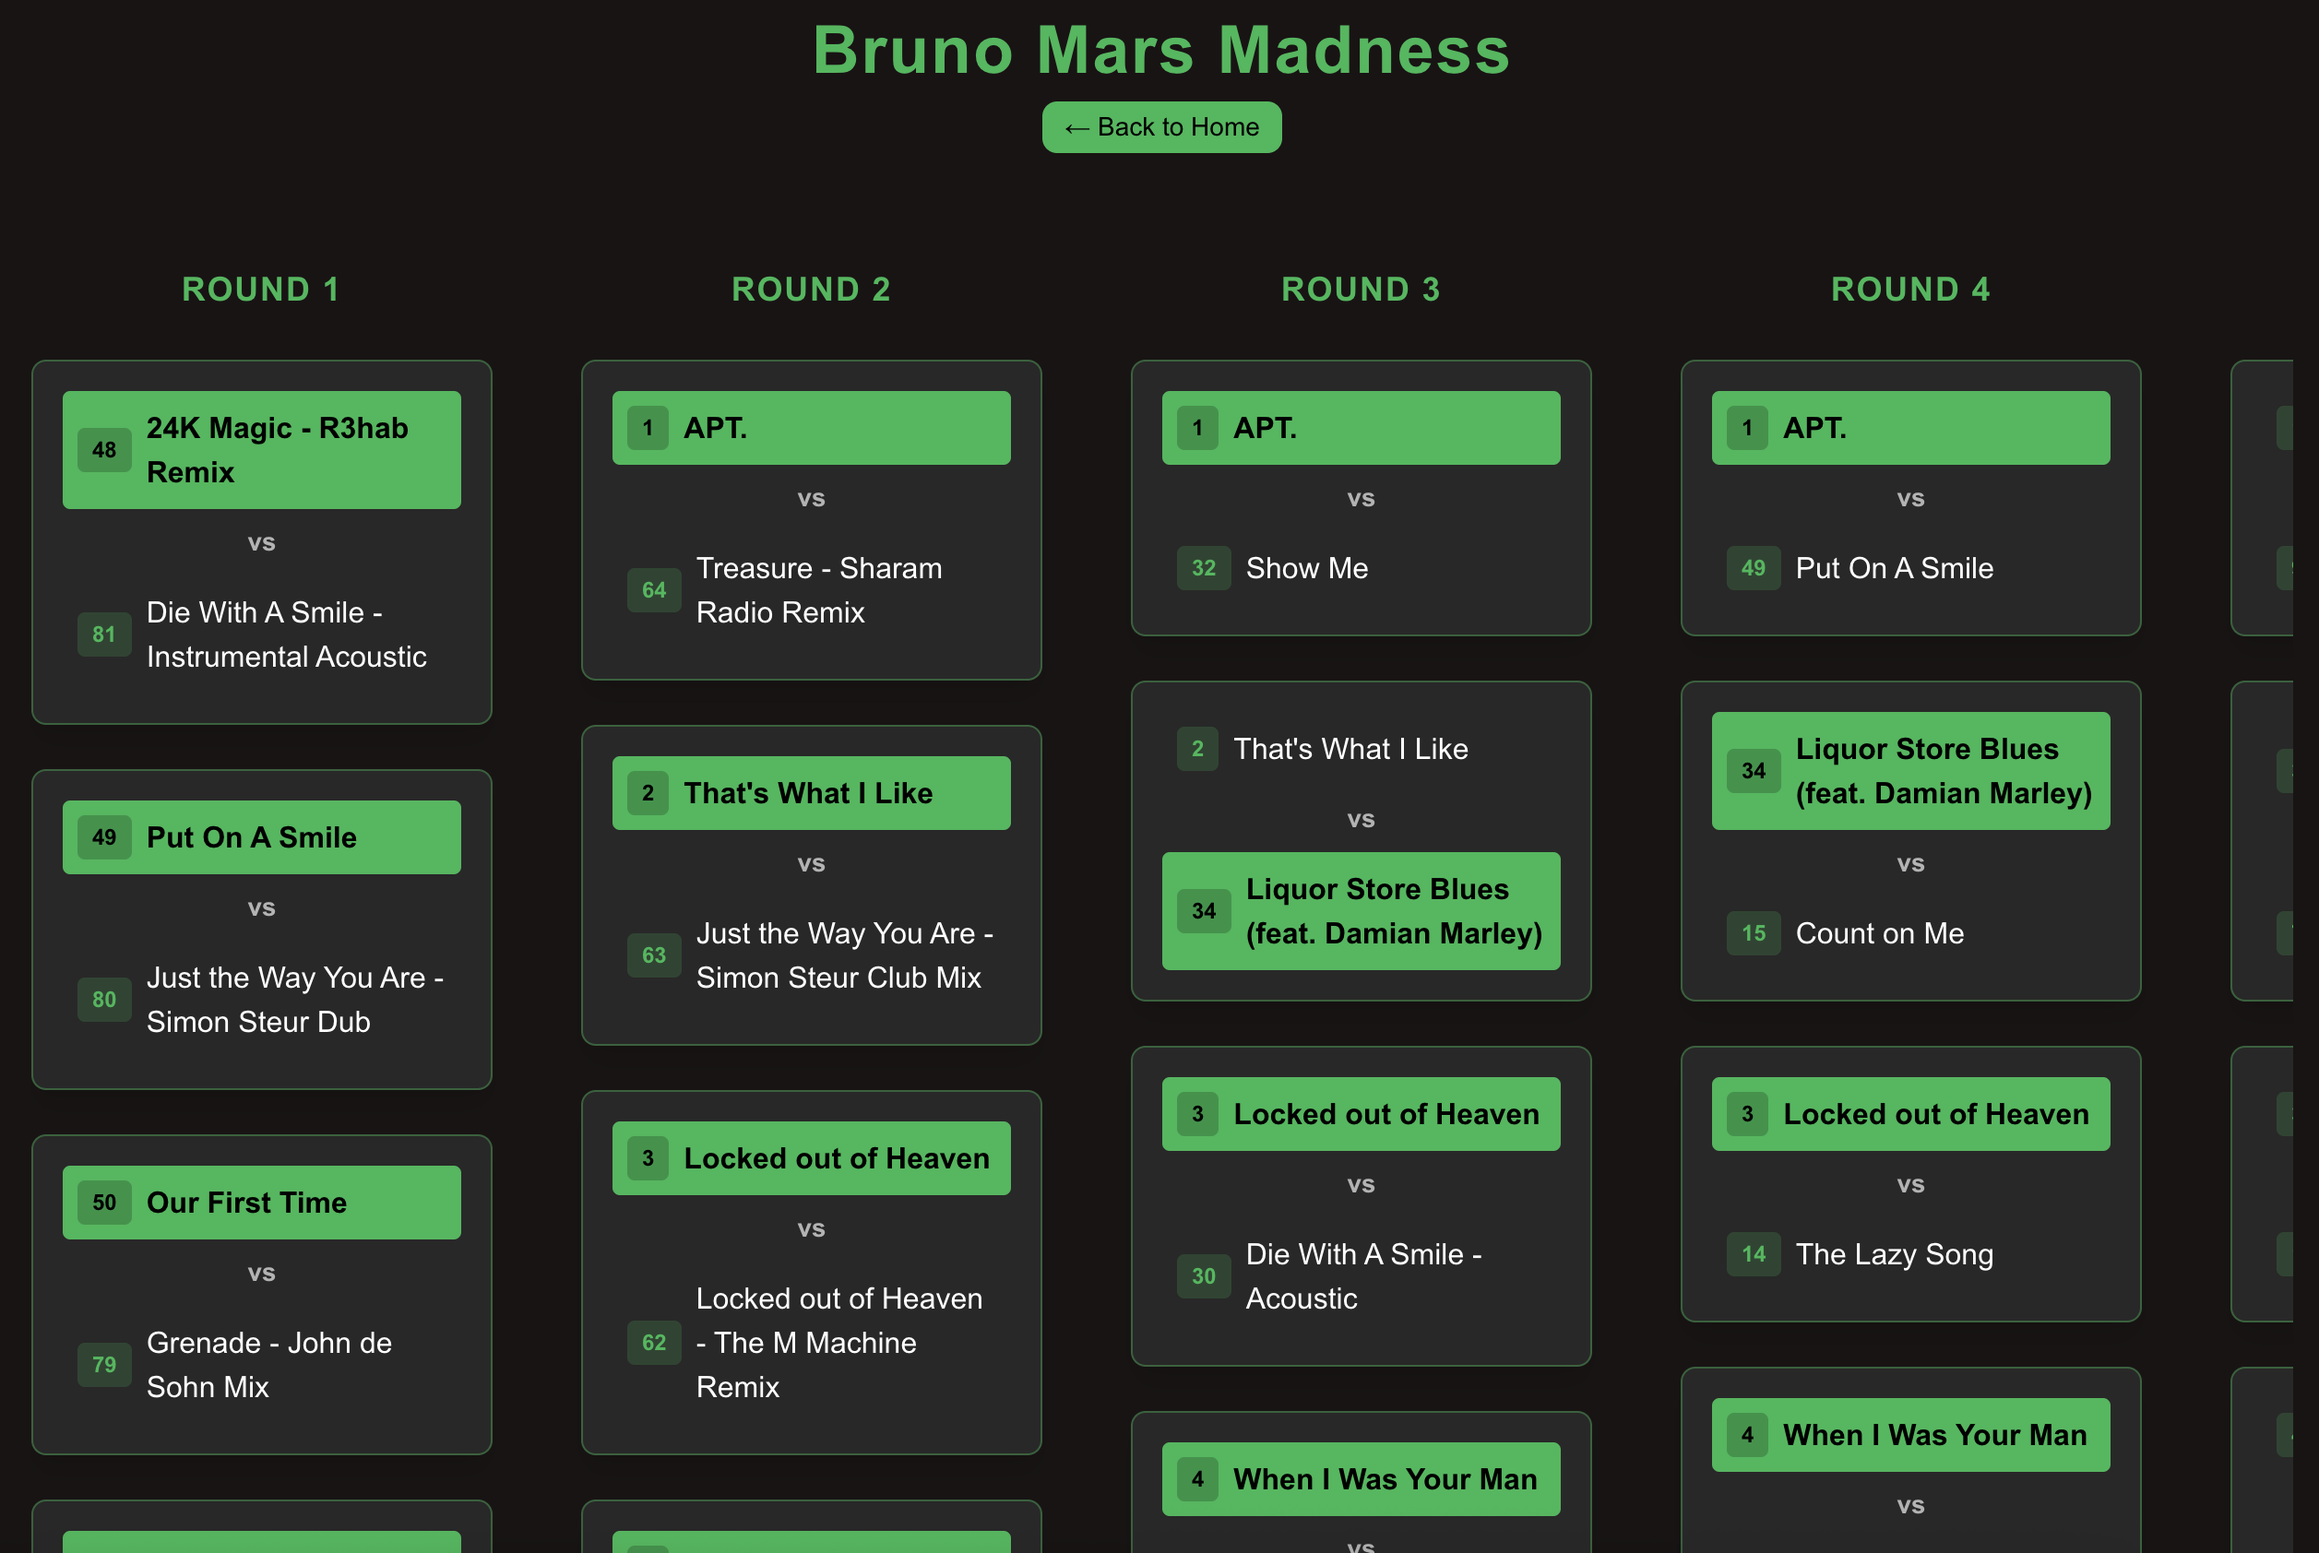
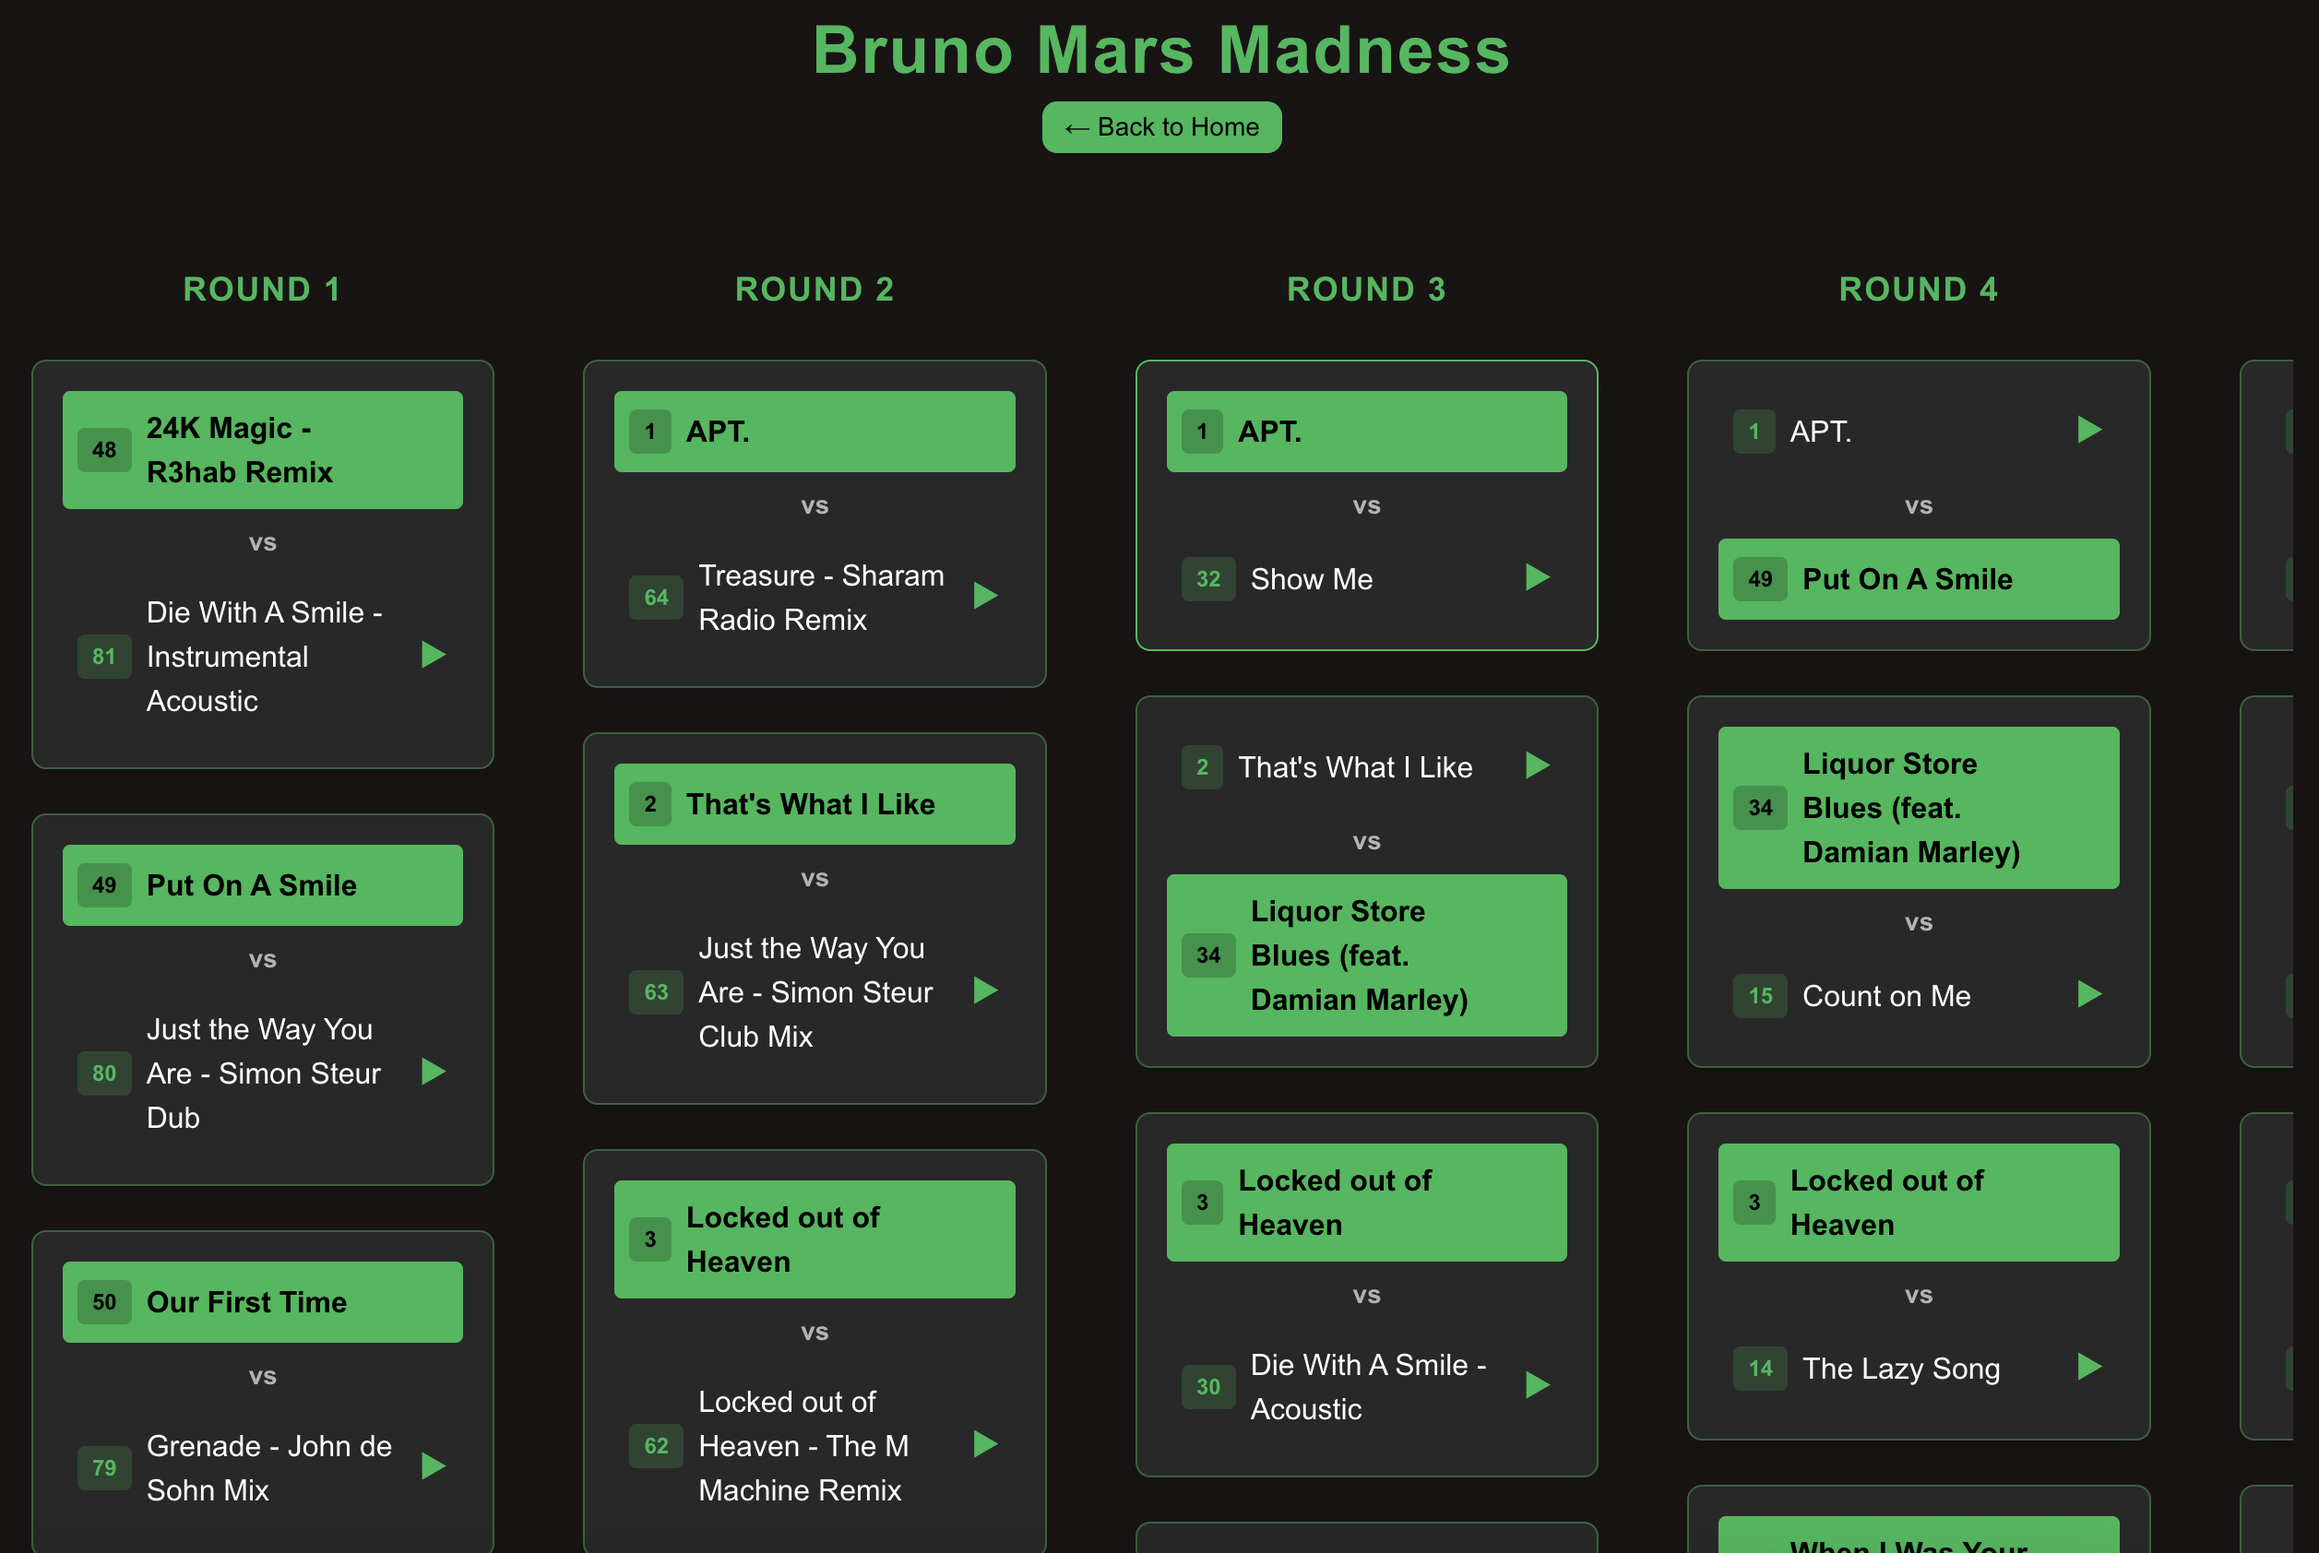
fixed readme

diff --git a/README.md b/README.md
@@ -6,13 +6,15 @@ An interactive web app that generates head-to-head tournament brackets from an a
 👉 [music-madness.vercel.app](https://music-madness.vercel.app)
 
 ## ✨ Features
-- 🔍 **Artist Search** – Enter any artist’s name to instantly pull their discography using the Spotify API
-- 🎶 **Automatic Song Import** – Fetches track titles and metadata directly from Spotify (no manual entry)
-- 🏆 **Bracket Generator** – Randomizes songs into a single-elimination tournament bracket
-- ✅ **Duplicate Handling** – Case-insensitive merging (e.g., “True Love” vs “TRUE LOVE” or "INDUSTRY BABY" vs "INDUSTRY BABY (feat. Jack Harlow)" count as the same song)
-- ⭐ **Song Popularity Ranking** – Automatically sorts songs by Spotify popularity score, so the biggest hits rise to the top
-- 🖥 **Interactive UI** – Progress through rounds by selecting winners with a clean, responsive bracket interface
-- 📌 **Quality of Life Features** – Sticky headers, dynamic tab names, and auto-advancing when matchups are empty
+- 🔍 **Artist Search** – Enter any artist’s name to instantly pull their discography using the Spotify API  
+- 🎶 **Automatic Song Import** – Fetches track titles, album covers, and metadata directly from Spotify (no manual entry)  
+- 🏆 **Bracket Generator** – Randomizes songs into a single-elimination tournament bracket  
+- ✅ **Duplicate Handling** – Case-insensitive merging (e.g., “True Love” vs “TRUE LOVE” or "INDUSTRY BABY" vs "INDUSTRY BABY (feat. Jack Harlow)" count as the same song)  
+- ⭐ **Song Popularity Ranking** – Automatically sorts songs by Spotify popularity score, so the biggest hits rise to the top  
+- 🎧 **Spotify Previews** – Play previews of songs directly from Spotify before making your pick  
+- 💾 **Save & Share Brackets** – Export or share your finished bracket so friends can compare results  
+- 🖥 **Interactive UI** – Progress through rounds by selecting winners with a clean, responsive bracket interface  
+- 📌 **Quality of Life Features** – Sticky headers, dynamic tab names, and auto-advancing when matchups are empty  
 
 ## 🛠 Tech Stack
 - **Frontend:** React, Next.js, JavaScript (ES6+)
@@ -24,11 +26,6 @@ An interactive web app that generates head-to-head tournament brackets from an a
 ![Home Page](./assets/homepage.png)
 ![Sample Bracket](./assets/sample-bruno.png)
 ![Sample Win](./assets/sample-looh-win.png)
-
-## 🔮 Future Improvements
-- Add ability to restart without refreshing
-- Save/share completed brackets
-- Mobile-optimized bracket view
 
 ## 📦 Getting Started (For Developers)
 ```bash
